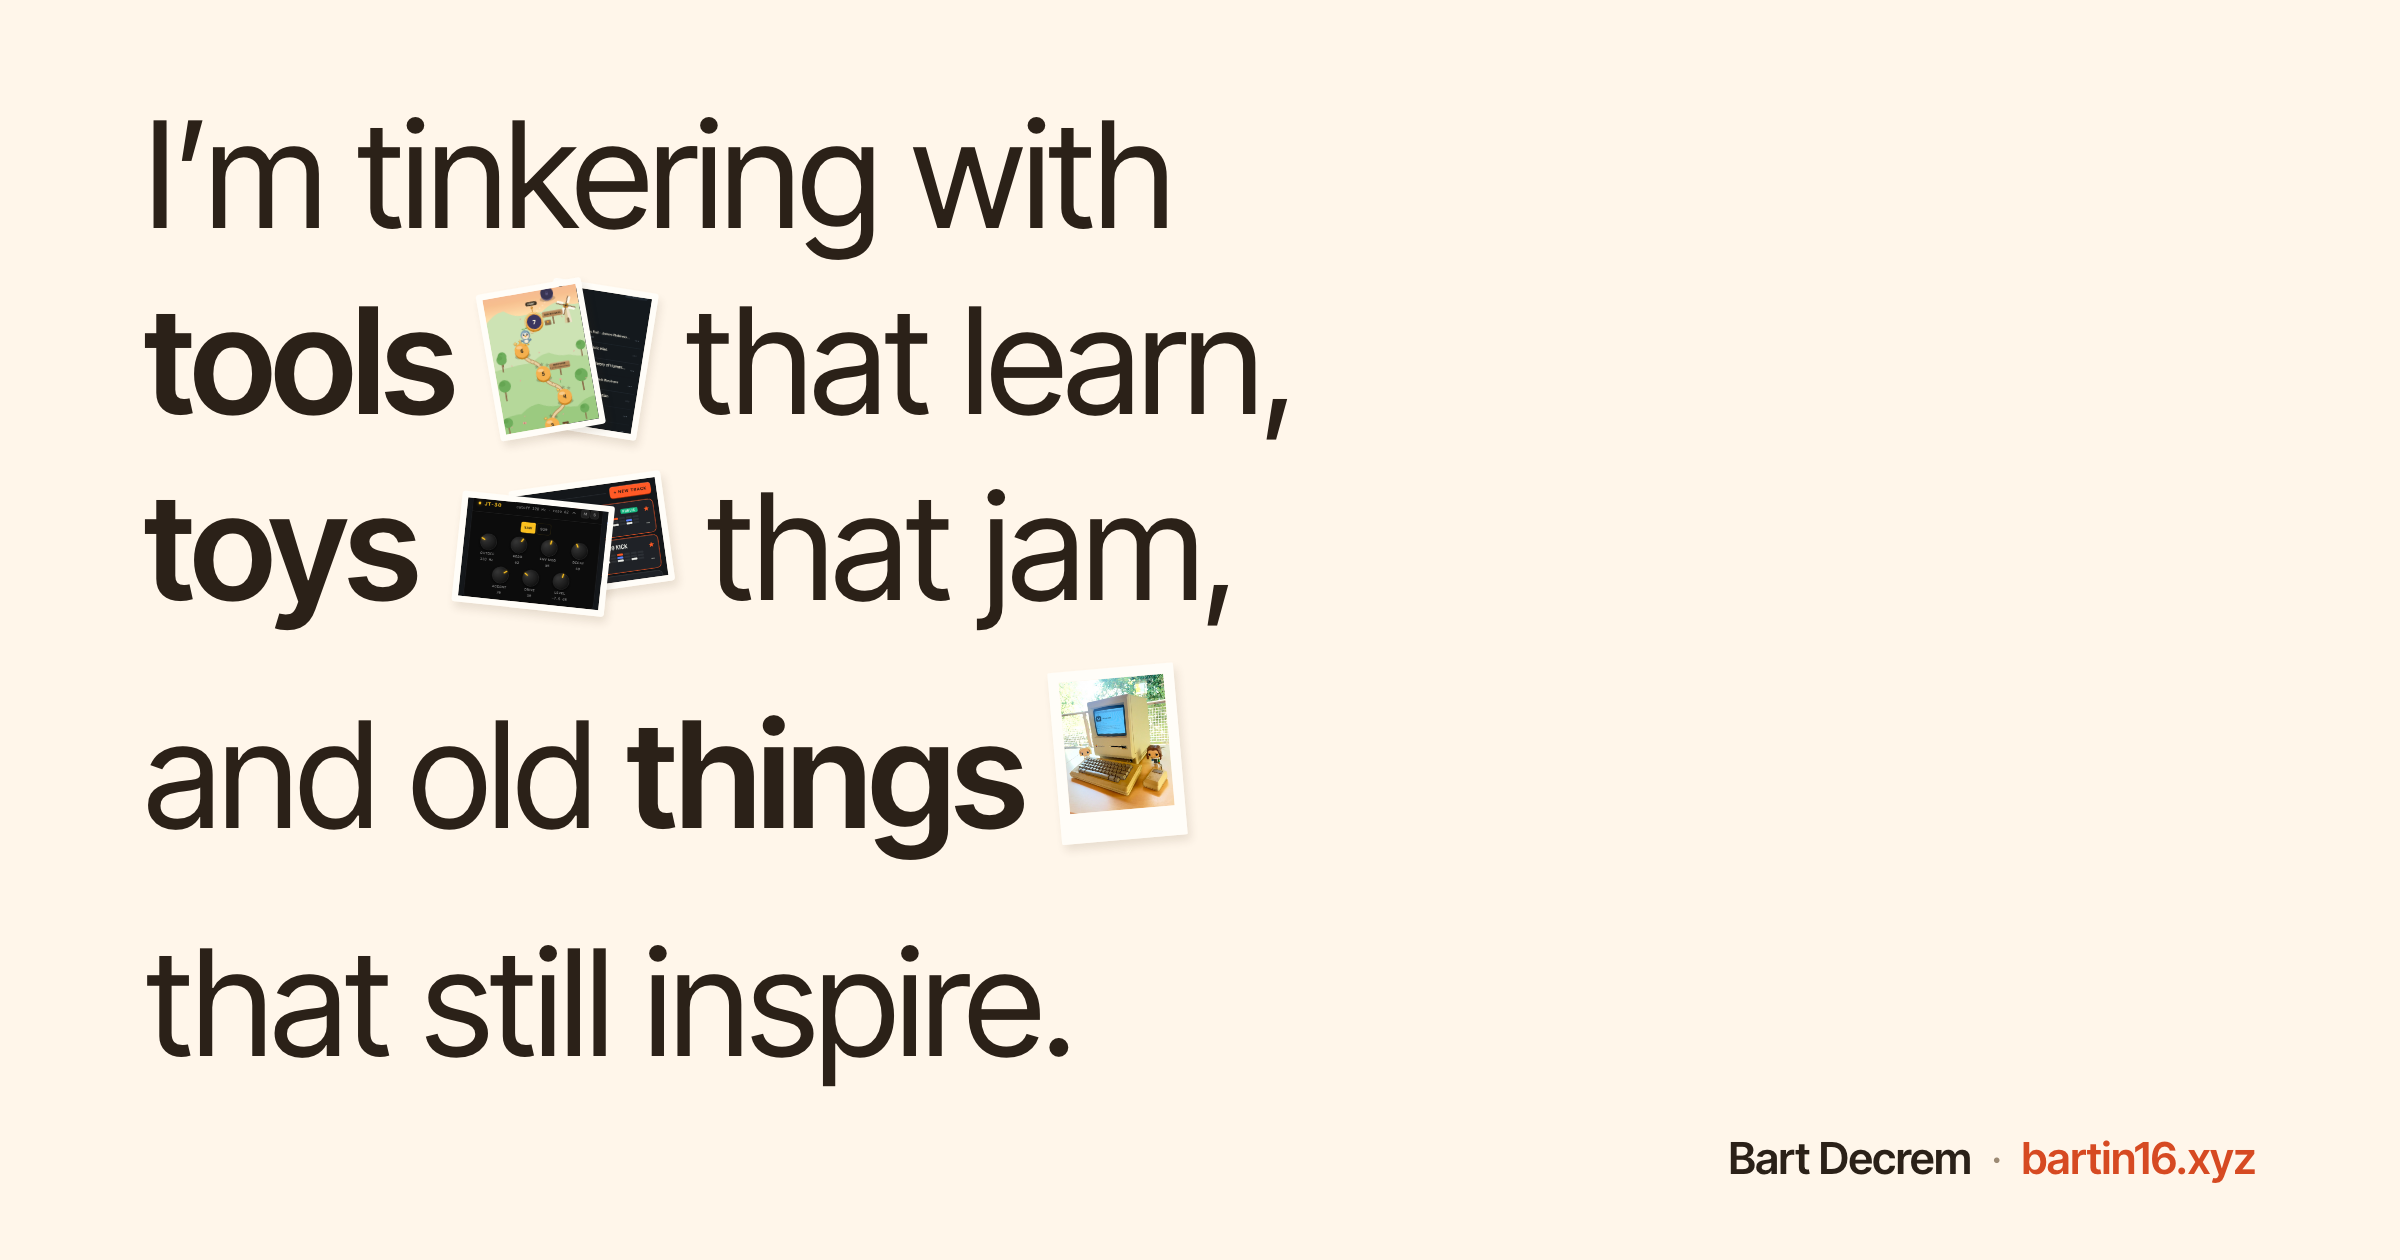
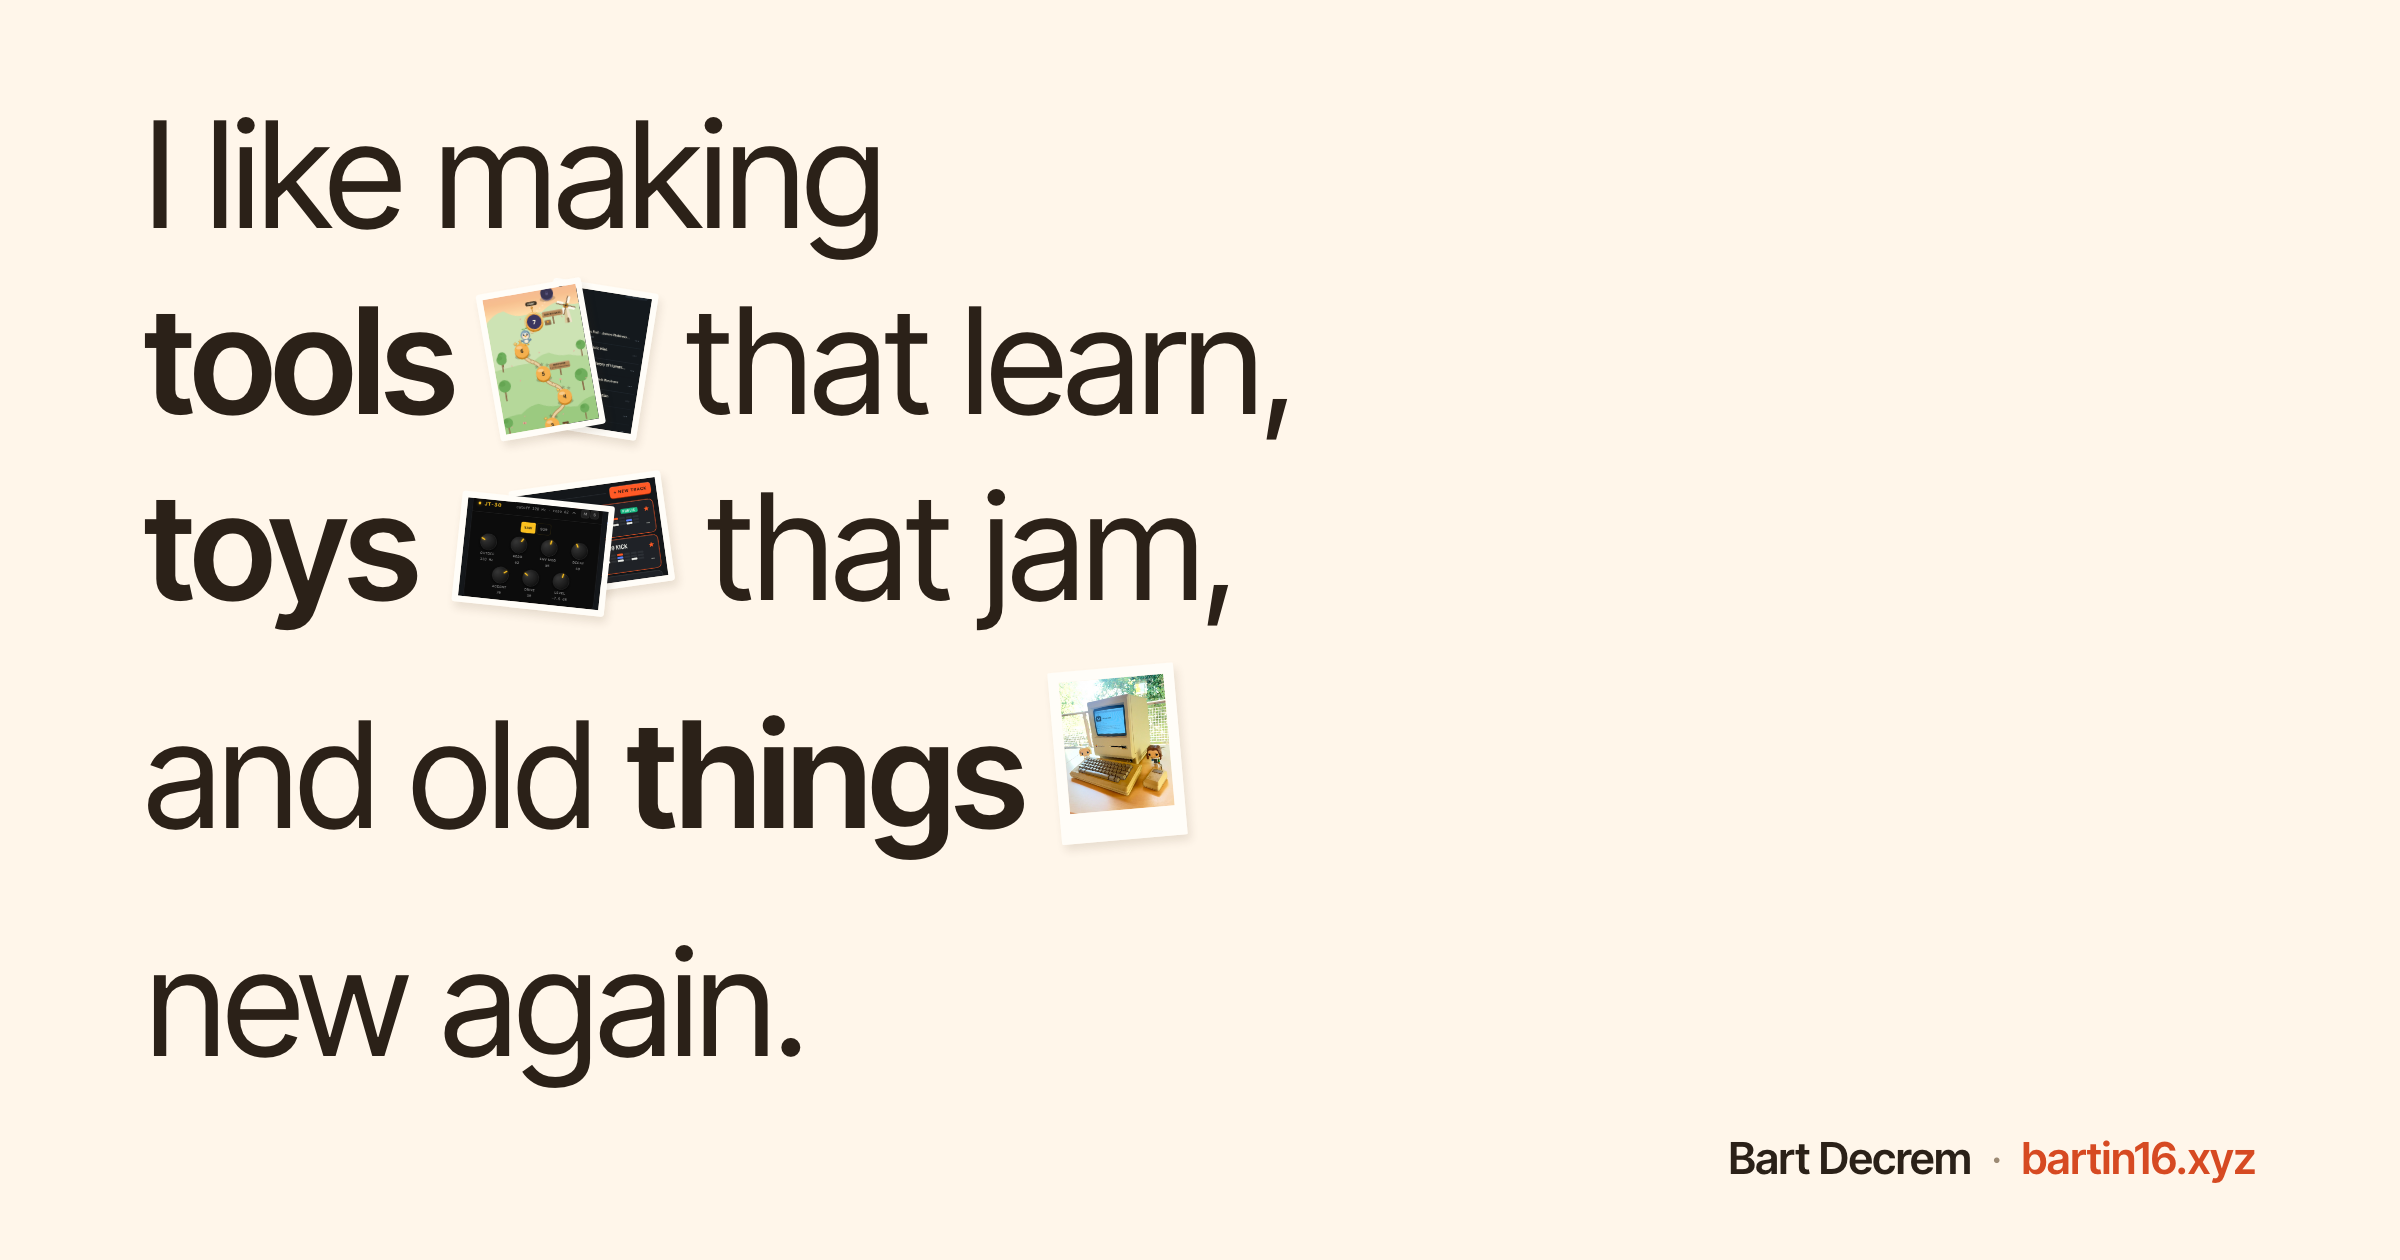
bartin16 / decremental: "I like making tools that learn, toys that jam, and old things new again."
Same photo placement (each after its noun), nouns in bold, OG image and
description regenerated.

Claude-Session: https://claude.ai/code/session_01LFHiSCCh74G6JzFeR6Uosq

Changed region(s): [[0.0625, 0.0929, 0.5, 0.1857], [0.0625, 0.7429, 0.4375, 0.8667]]

diff --git a/src/app/hi/home.ts b/src/app/hi/home.ts
@@ -3,12 +3,12 @@
 // under `.edition-three`, shared with the /hi/alt4 draft.
 const FLOW = `<main class="three-main">
   <h1 class="three-title">Hey, I’m Bart.</h1>
-  <div class="three-letter" aria-label="I’m tinkering with tools that learn, toys that jam, and old things that still inspire.">
-    <div class="letter-line"><span>I’m tinkering with</span></div>
+  <div class="three-letter" aria-label="I like making tools that learn, toys that jam, and old things new again.">
+    <div class="letter-line"><span>I like making</span></div>
     <div class="letter-line"><span><em>tools</em></span><a class="inline-object inline-dodo" href="https://dodo.foo" target="_blank" rel="noopener" aria-label="Dodo — dodo.foo"><img class="inline-front" src="/hi/alts/assets/dodo-peck.png" alt="Dodo’s playful Peck learning path"><img class="inline-back" src="/hi/alts/assets/dodo-topics.png" alt="Dodo’s topics library"><span class="object-index mono">dodo.foo ↗</span></a><span>that learn,</span></div>
     <div class="letter-line"><span><em>toys</em></span><a class="inline-object inline-jam" href="https://jambot.to" target="_blank" rel="noopener" aria-label="Jambot — jambot.to"><img class="inline-front" src="/hi/alts/assets/jambot-controls.png" alt="Jambot synth controls"><img class="inline-back" src="/hi/alts/assets/jambot-tracks.png" alt="Jambot track sequencers"><span class="object-index mono">jambot.to ↗</span></a><span>that jam,</span></div>
     <div class="letter-line"><span>and old <em>things</em></span><span class="mac-slot"><a class="inline-object inline-mac" href="https://github.com/bdecrem/Macinclaude/blob/main/README.md" target="_blank" rel="noopener" aria-label="Macinclaude on GitHub"><img src="/hi/alts/assets/mac-plus.jpg" alt="The Macintosh Plus on Bart’s desk"><span class="object-index mono">macinclaude ↗</span></a><a class="object-alt mono" href="/hi/alts/assets/mac-plus.jpg" target="_blank" rel="noopener">full photo ↗</a></span></div>
-    <div class="letter-line last-letter"><span>that still inspire.</span></div>
+    <div class="letter-line last-letter"><span>new again.</span></div>
   </div>
   @@BIO@@
 </main>
@@ -44,10 +44,10 @@ const OBJECTS = FLOW.match(/<a class="inline-object[\s\S]*?<\/a>/g) as string[]
 const [DODO, JAM, MAC] = OBJECTS
 
 export const cardBody = `<main class="three-main">
-  <div class="three-letter" aria-label="I’m tinkering with tools that learn, toys that jam, and old things that still inspire.">
-    <div class="letter-line"><span>I’m tinkering with <em>tools</em></span>${DODO}</div>
-    <div class="letter-line"><span>that learn, <em>toys</em></span>${JAM}<span>that jam,</span></div>
-    <div class="letter-line last-letter"><span>and old <em>things</em></span>${MAC}<span>that still inspire.</span></div>
+  <div class="three-letter" aria-label="I like making tools that learn, toys that jam, and old things new again.">
+    <div class="letter-line"><span>I like making <em>tools</em></span>${DODO}<span>that learn,</span></div>
+    <div class="letter-line"><span><em>toys</em></span>${JAM}<span>that jam, and old</span></div>
+    <div class="letter-line last-letter"><span><em>things</em></span>${MAC}<span>new again.</span></div>
   </div>
 </main>`
 

diff --git a/src/app/hi/route.ts b/src/app/hi/route.ts
@@ -3,7 +3,7 @@ import { body, bodyWithForm, formScript, objectsScript } from './home'
 
 const TITLE = "Hi, I'm Bart in 16"
 const DESCRIPTION =
-  'I’m tinkering with tools that learn, toys that jam, and old things that still inspire. Bart Decrem, practitioner fellow at CASBS.'
+  'I like making tools that learn, toys that jam, and old things new again. Bart Decrem, practitioner fellow at CASBS.'
 const URL_BARTIN16 = 'https://bartin16.xyz/'
 const IMAGE = 'https://bartin16.xyz/hi/og.png'
 

diff --git a/src/app/hi/_alts/README.md b/src/app/hi/_alts/README.md
@@ -56,7 +56,7 @@ Unfinished concepts retained for future editing. The existing `src/app/hi/page.t
   "new again." removed, and the footer set in the same warm ink at 13px without the "↗" arrows (they now underline in
   clay on hover). Display tracking on the flow lines is -.016em: anything near -.05em collides "rn" into "m" in
   "learning", in Safari especially. Screenshot both engines after touching it — WebKit is installed for Playwright.
-  Copy since 2026-09-12: "I'm tinkering with tools that learn, toys that jam, and old things that still inspire." —
+  Copy since 2026-09-12: "I like making tools that learn, toys that jam, and old things new again." —
   the bold words are the three nouns and each photo sits right after its noun (tools → Dodo, toys → Jambot, things →
   the Mac Plus). Both hosts carry "This year I'm at CASBS, spending my tokens on AI × human flourishing." under it
   (bartin16 then the invitation with email and phone, decremental then "talk to you"); the bio column is 58ch so that
